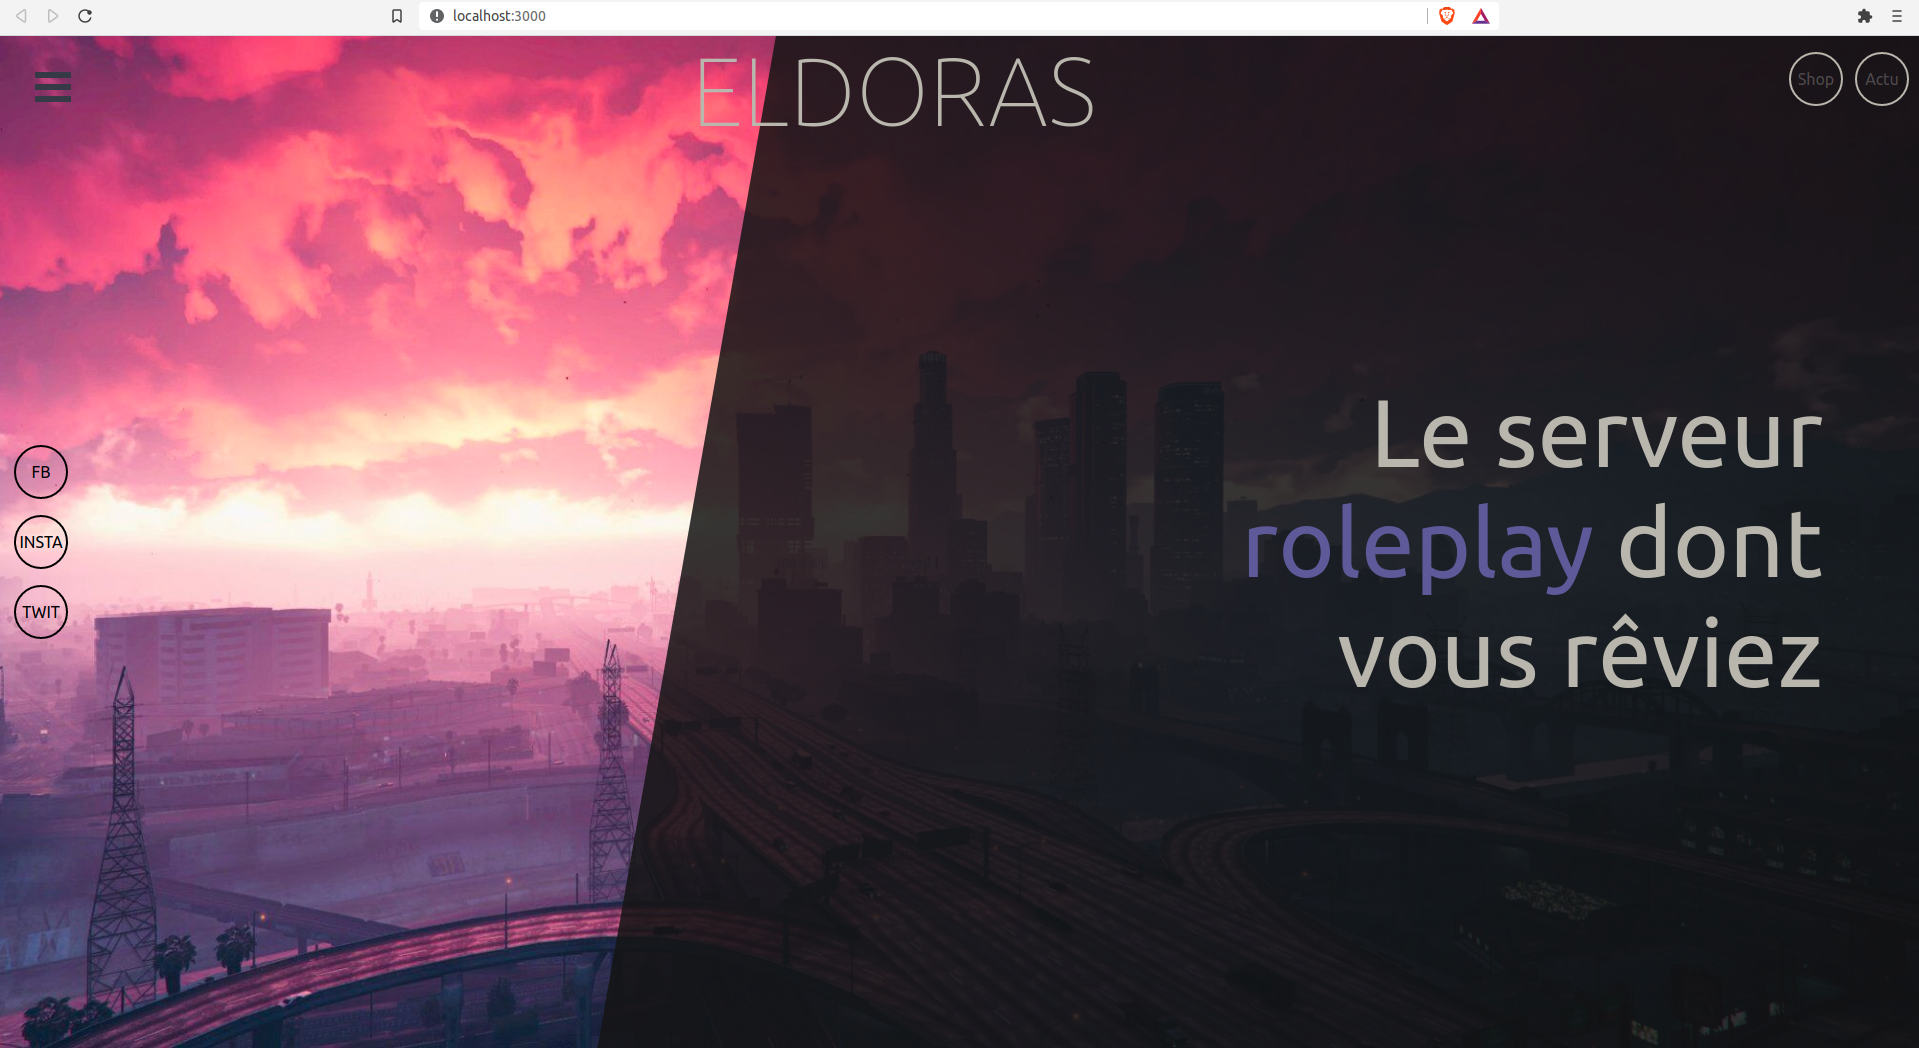
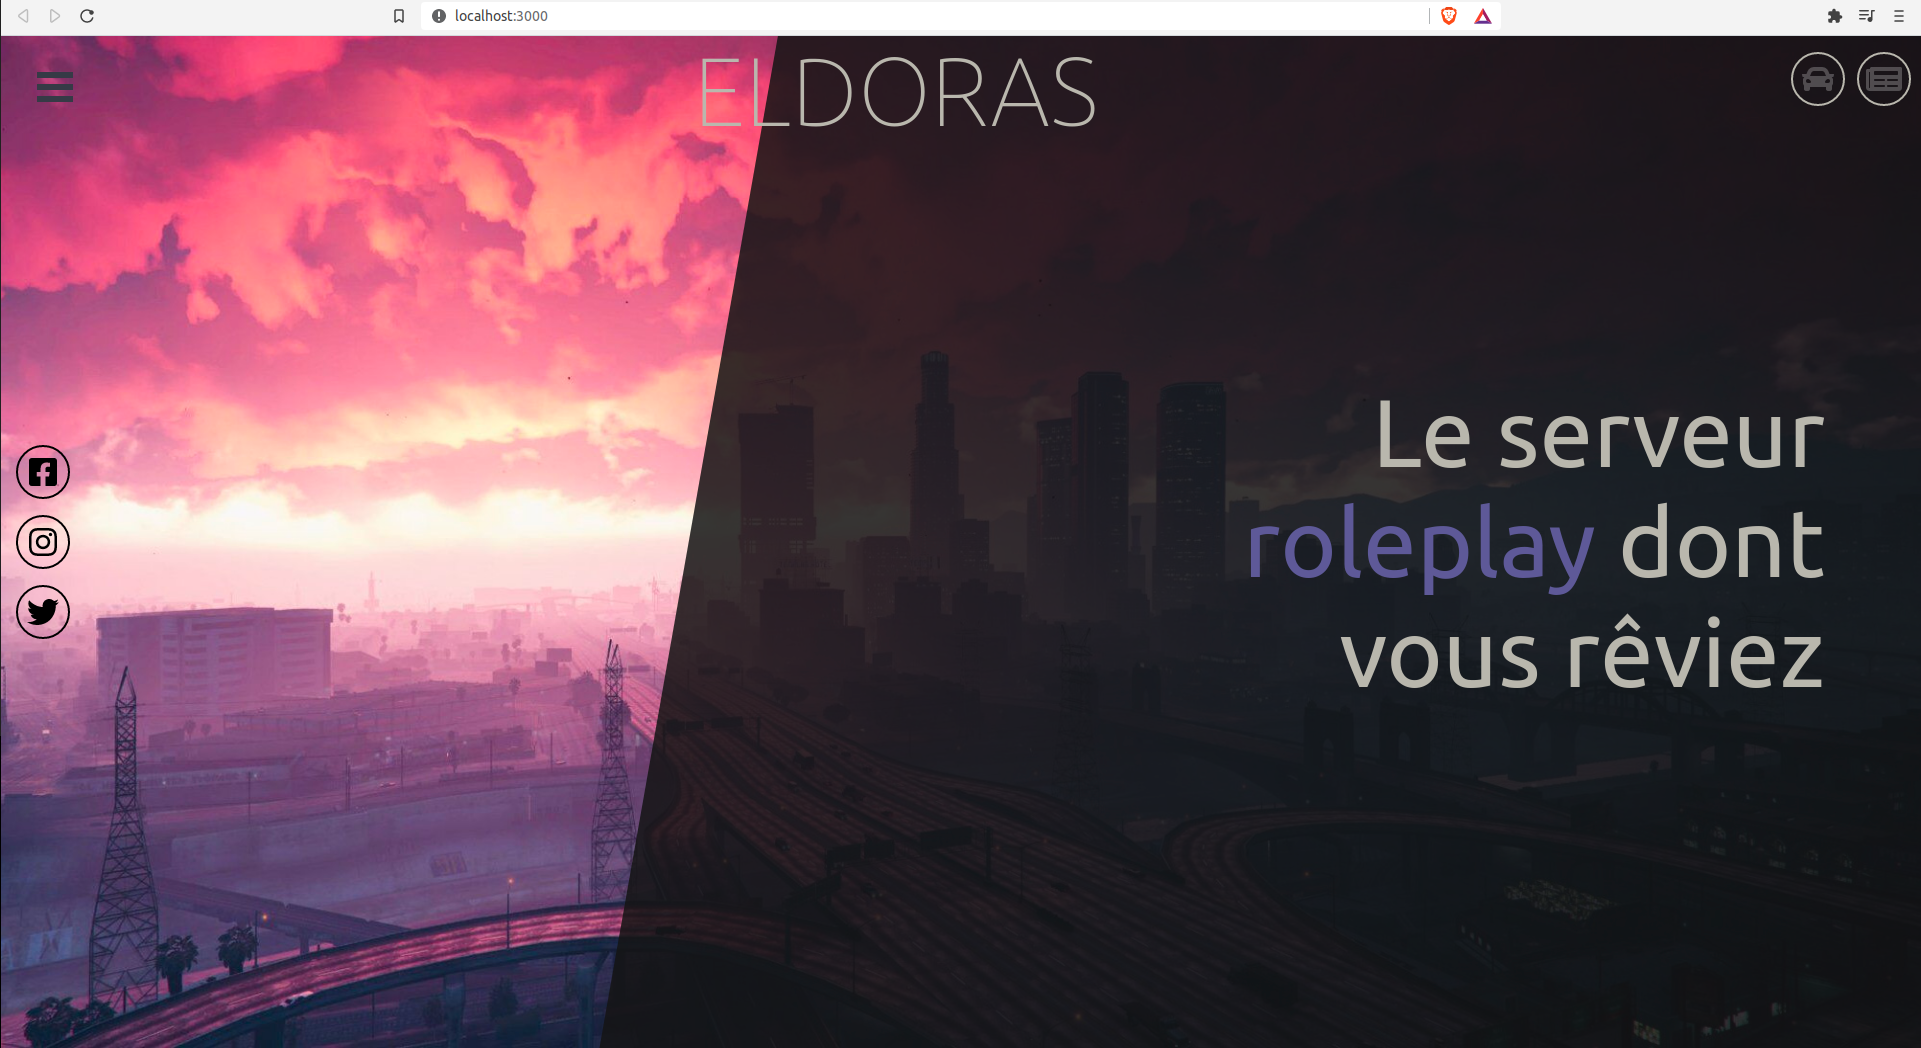
ajouts des icones dans la home page

diff --git a/front/src/component/Home.js b/front/src/component/Home.js
@@ -1,12 +1,19 @@
 import React from 'react'
 
+import { FontAwesomeIcon } from '@fortawesome/react-fontawesome'
+import {
+  faFacebookSquare,
+  faInstagram,
+  faTwitter,
+} from '@fortawesome/free-brands-svg-icons'
+
 import {
   BackgroundImg,
   Filter,
+  Link,
   MainMenu,
   Section,
 } from './utils/template'
-import { Link } from './utils/template'
 import './home.css'
 
 export default function Home() {
@@ -23,13 +30,22 @@ export default function Home() {
           <div className='containerHome'>
             <div className={'columnRS'}>
               <Link button dark>
-                FB
+                <FontAwesomeIcon
+                  icon={faFacebookSquare}
+                  size={'2x'}
+                />
               </Link>
               <Link button dark>
-                INSTA
+                <FontAwesomeIcon
+                  icon={faInstagram}
+                  size={'2x'}
+                />
               </Link>
               <Link button dark>
-                TWIT
+                <FontAwesomeIcon
+                  icon={faTwitter}
+                  size={'2x'}
+                />
               </Link>
             </div>
             <div className={'textPresentation'}>

diff --git a/front/src/component/utils/template.js b/front/src/component/utils/template.js
@@ -1,3 +1,9 @@
+import { FontAwesomeIcon } from '@fortawesome/react-fontawesome'
+import {
+  faCar,
+  faNewspaper,
+} from '@fortawesome/free-solid-svg-icons'
+
 import React from 'react'
 
 import { elastic as Menu } from 'react-burger-menu'
@@ -58,12 +64,15 @@ export const MainMenu = ({ children }) => (
         <div className='rowButtonLink'>
           <Tooltips content={'Bientôt disponible'}>
             <Link button disabled>
-              Shop
+              <FontAwesomeIcon icon={faCar} size={'2x'} />
             </Link>
           </Tooltips>
           <Tooltips content={'Bientôt disponible'}>
             <Link button disabled>
-              Actu
+              <FontAwesomeIcon
+                icon={faNewspaper}
+                size={'2x'}
+              />
             </Link>
           </Tooltips>
         </div>
